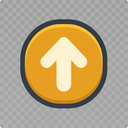
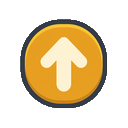
fix(hud): cut gray plate out of jump button
The jump PNG had an opaque gray checkerboard baked into the
corners. Punch it to alpha and clip the control to a circle.

diff --git a/midgard_outpost/test/art/assets_exist_test.dart b/midgard_outpost/test/art/assets_exist_test.dart
@@ -1,3 +1,5 @@
+import 'dart:ui' as ui;
+
 import 'package:flutter/services.dart';
 import 'package:flutter_test/flutter_test.dart';
 import 'package:midgard_outpost/art/art_atlas.dart';
@@ -9,5 +11,32 @@ void main() {
       final data = await rootBundle.load('${ArtAtlas.assetRoot}$path');
       expect(data.lengthInBytes, greaterThan(0), reason: path);
     }
+  });
+
+  test('jump button corners are transparent, not a gray plate', () async {
+    TestWidgetsFlutterBinding.ensureInitialized();
+    final data = await rootBundle.load(ArtAtlas.flutterAsset(ArtAtlas.btnJump));
+    final codec = await ui.instantiateImageCodec(data.buffer.asUint8List());
+    final frame = await codec.getNextFrame();
+    final image = frame.image;
+    final bytes = await image.toByteData(format: ui.ImageByteFormat.rawRgba);
+    expect(bytes, isNotNull);
+
+    final width = image.width;
+    int alphaAt(int x, int y) => bytes!.getUint8((y * width + x) * 4 + 3);
+
+    var cornerTransparent = 0;
+    for (var y = 0; y < 16; y++) {
+      for (var x = 0; x < 16; x++) {
+        if (alphaAt(x, y) < 16) {
+          cornerTransparent++;
+        }
+      }
+    }
+    expect(
+      cornerTransparent,
+      greaterThan(200),
+      reason: 'top-left 16x16 should be cut out, not an opaque gray square',
+    );
   });
 }

diff --git a/midgard_outpost/lib/run/components/hud_overlay.dart b/midgard_outpost/lib/run/components/hud_overlay.dart
@@ -431,12 +431,14 @@ class _ImageTapButton extends StatelessWidget {
   Widget build(BuildContext context) {
     return GestureDetector(
       onTap: onTap,
-      child: Image.asset(
-        ArtAtlas.flutterAsset(assetPath),
-        width: size,
-        height: size,
-        fit: BoxFit.contain,
-        filterQuality: FilterQuality.none,
+      child: ClipOval(
+        child: Image.asset(
+          ArtAtlas.flutterAsset(assetPath),
+          width: size,
+          height: size,
+          fit: BoxFit.contain,
+          filterQuality: FilterQuality.medium,
+        ),
       ),
     );
   }
